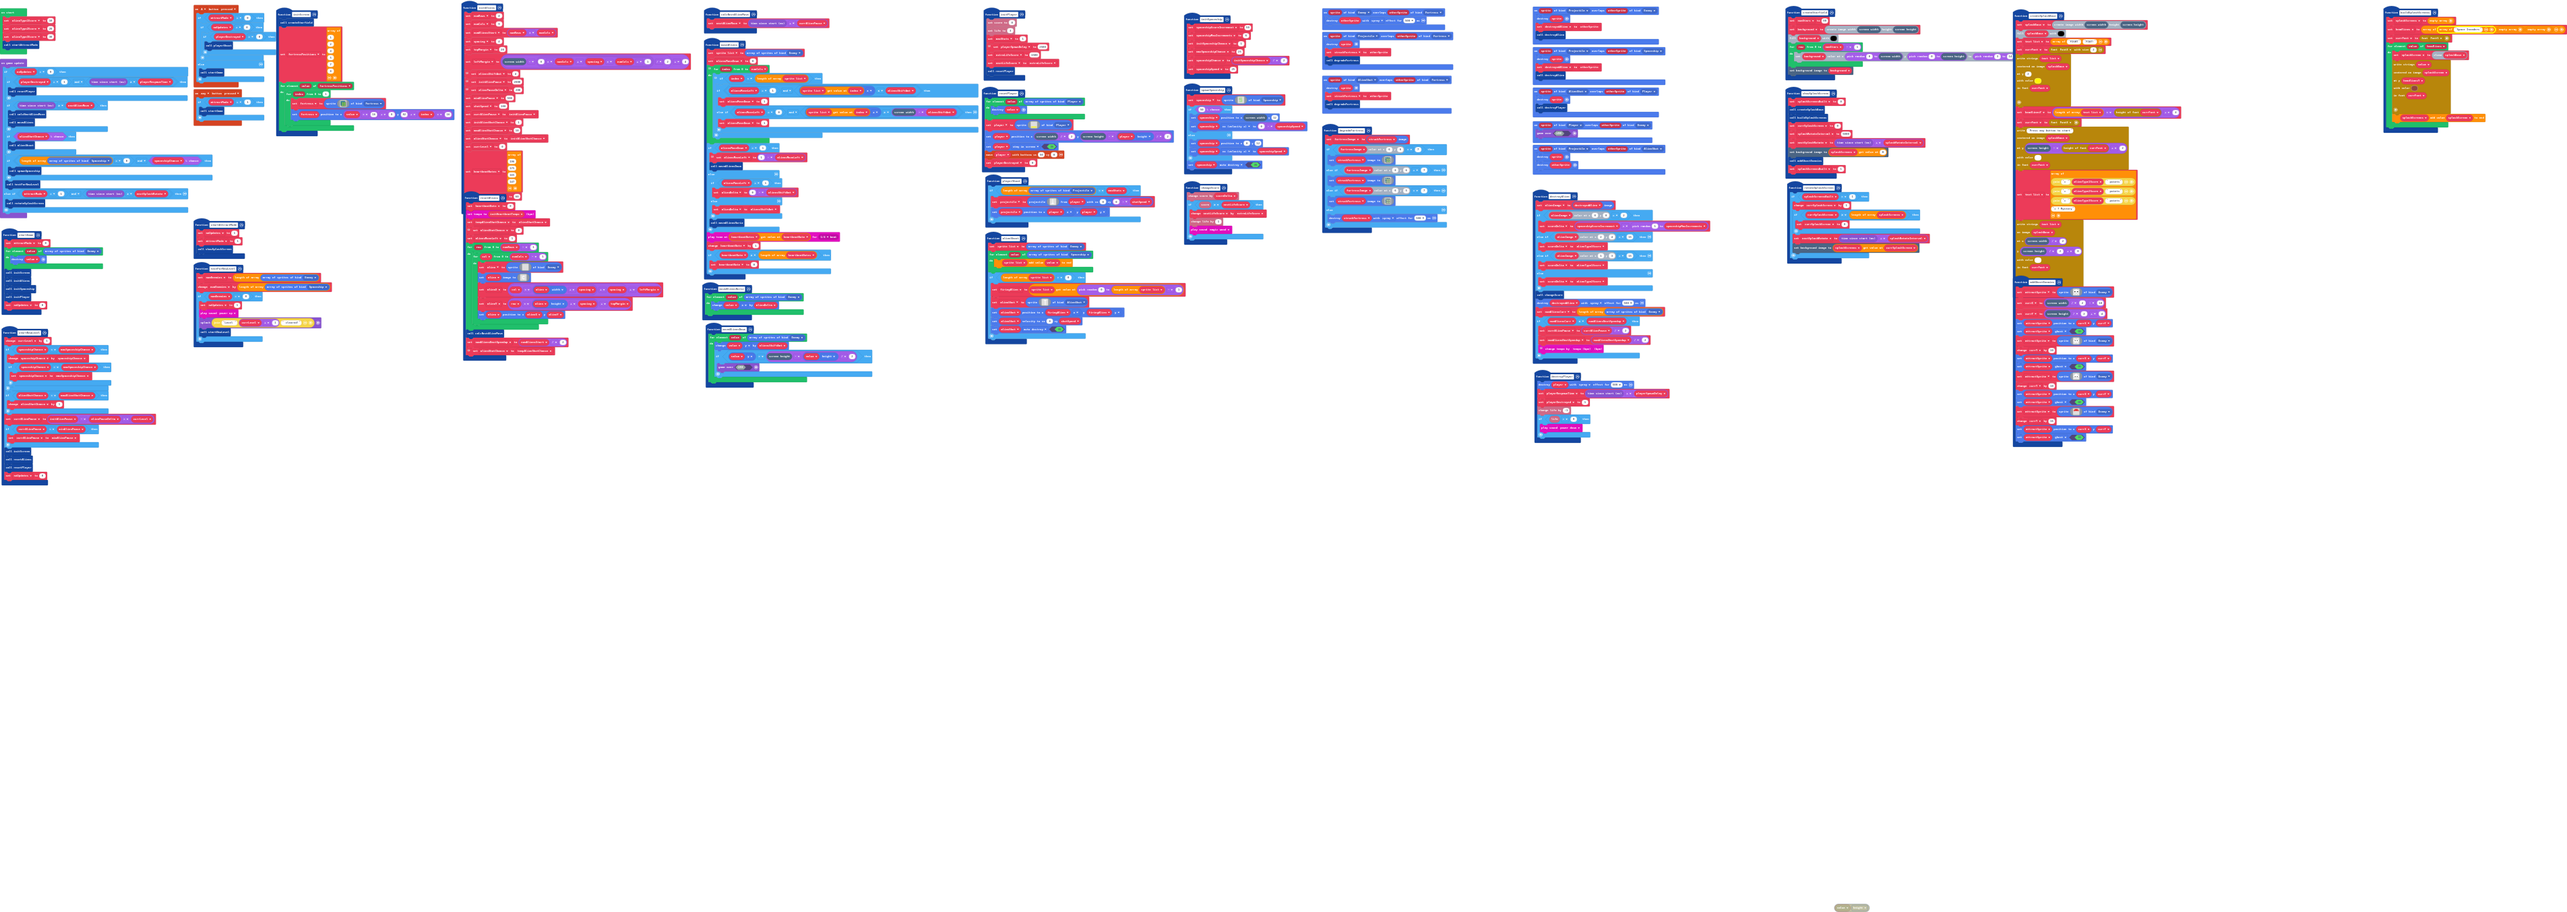
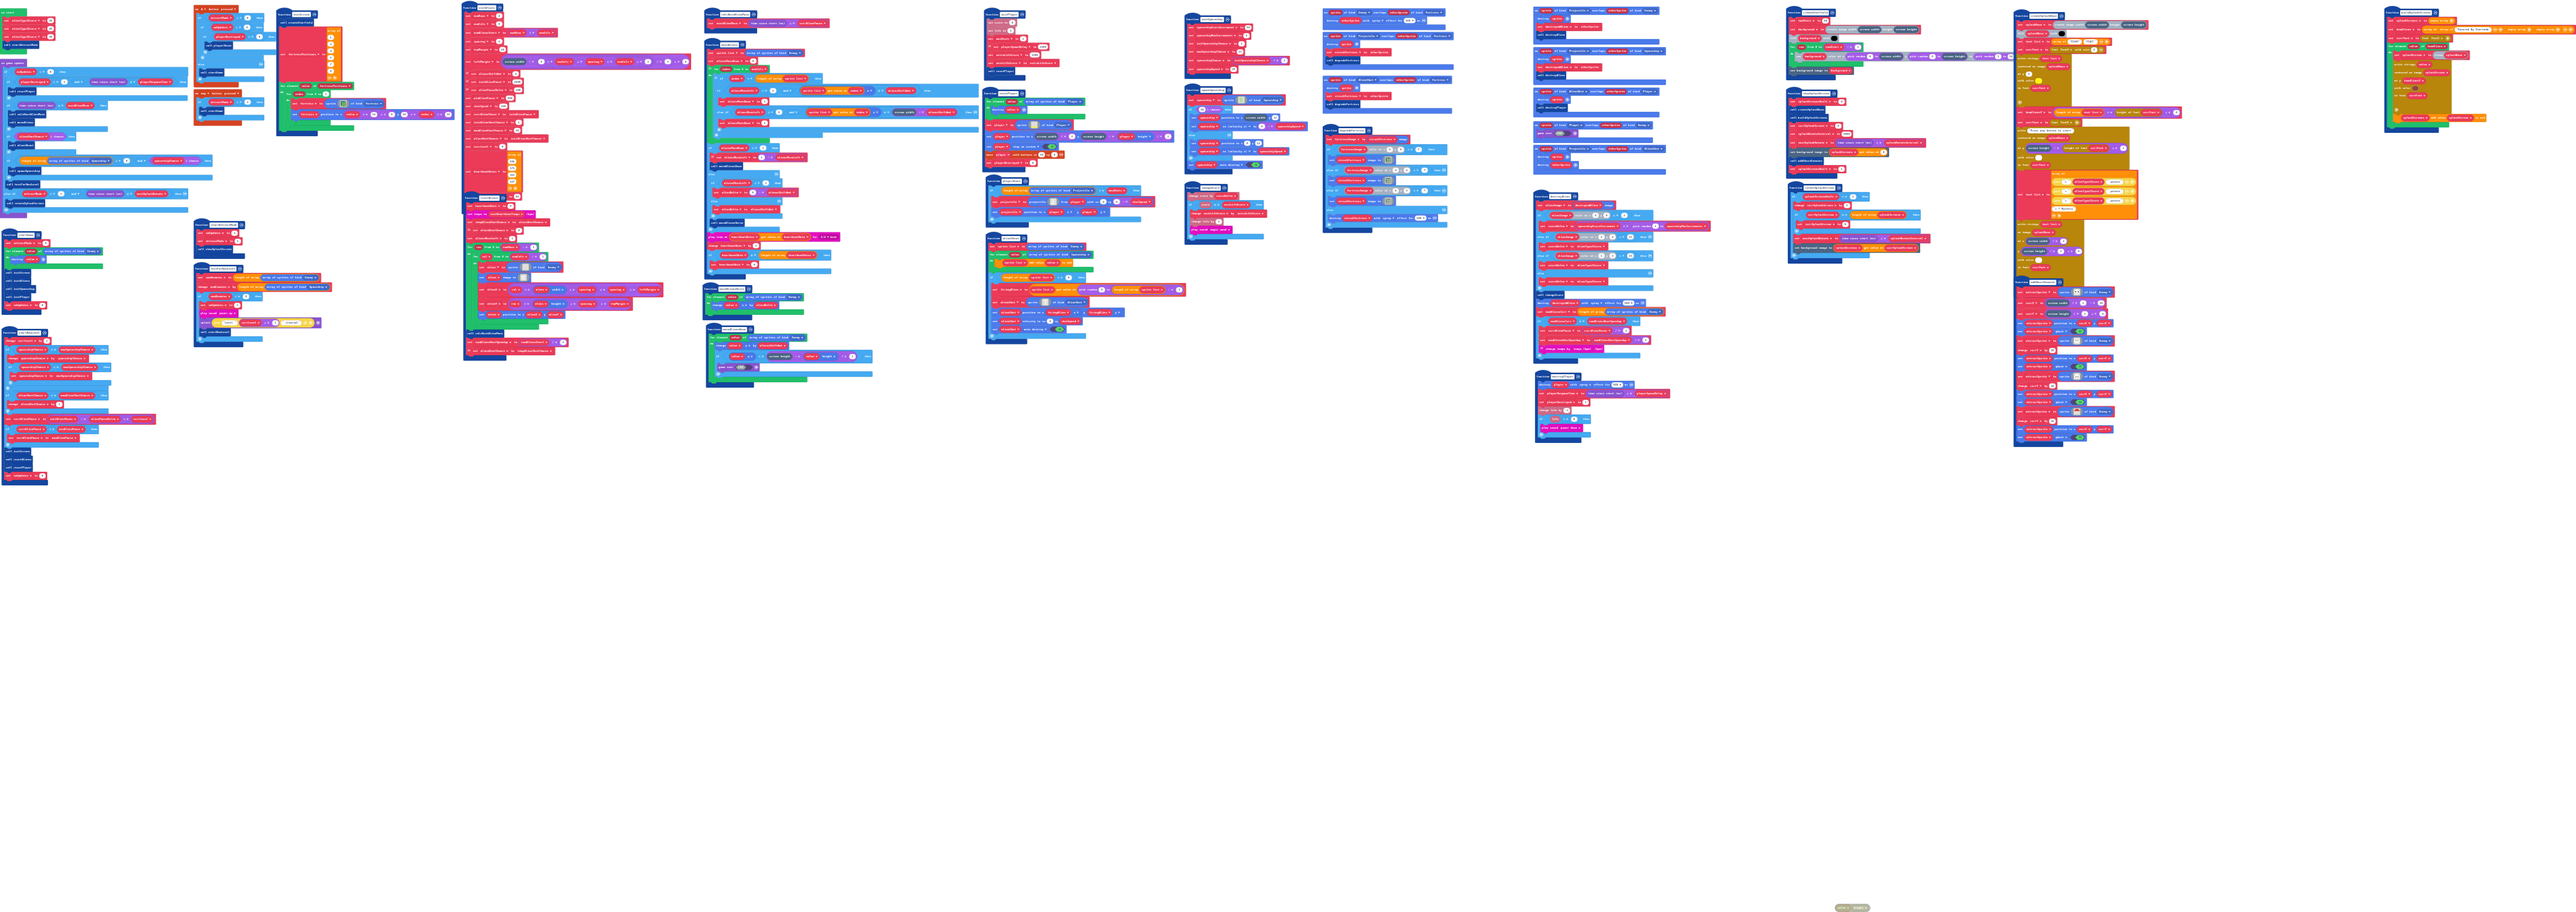
Update main.blocks, main.ts

diff --git a/main.ts b/main.ts
@@ -544,7 +544,7 @@ function initAliens () {
 }
 function buildSplashScreens () {
     splashScreens = []
-    headlines = [["Space Invaders"], [], []]
+    headlines = [["Powered By Starcada"], [], []]
     currFont = drawStrings.createFontInfo(FontName.Font5)
     for (let value of headlines) {
         splashScreen = splashBase.clone()
